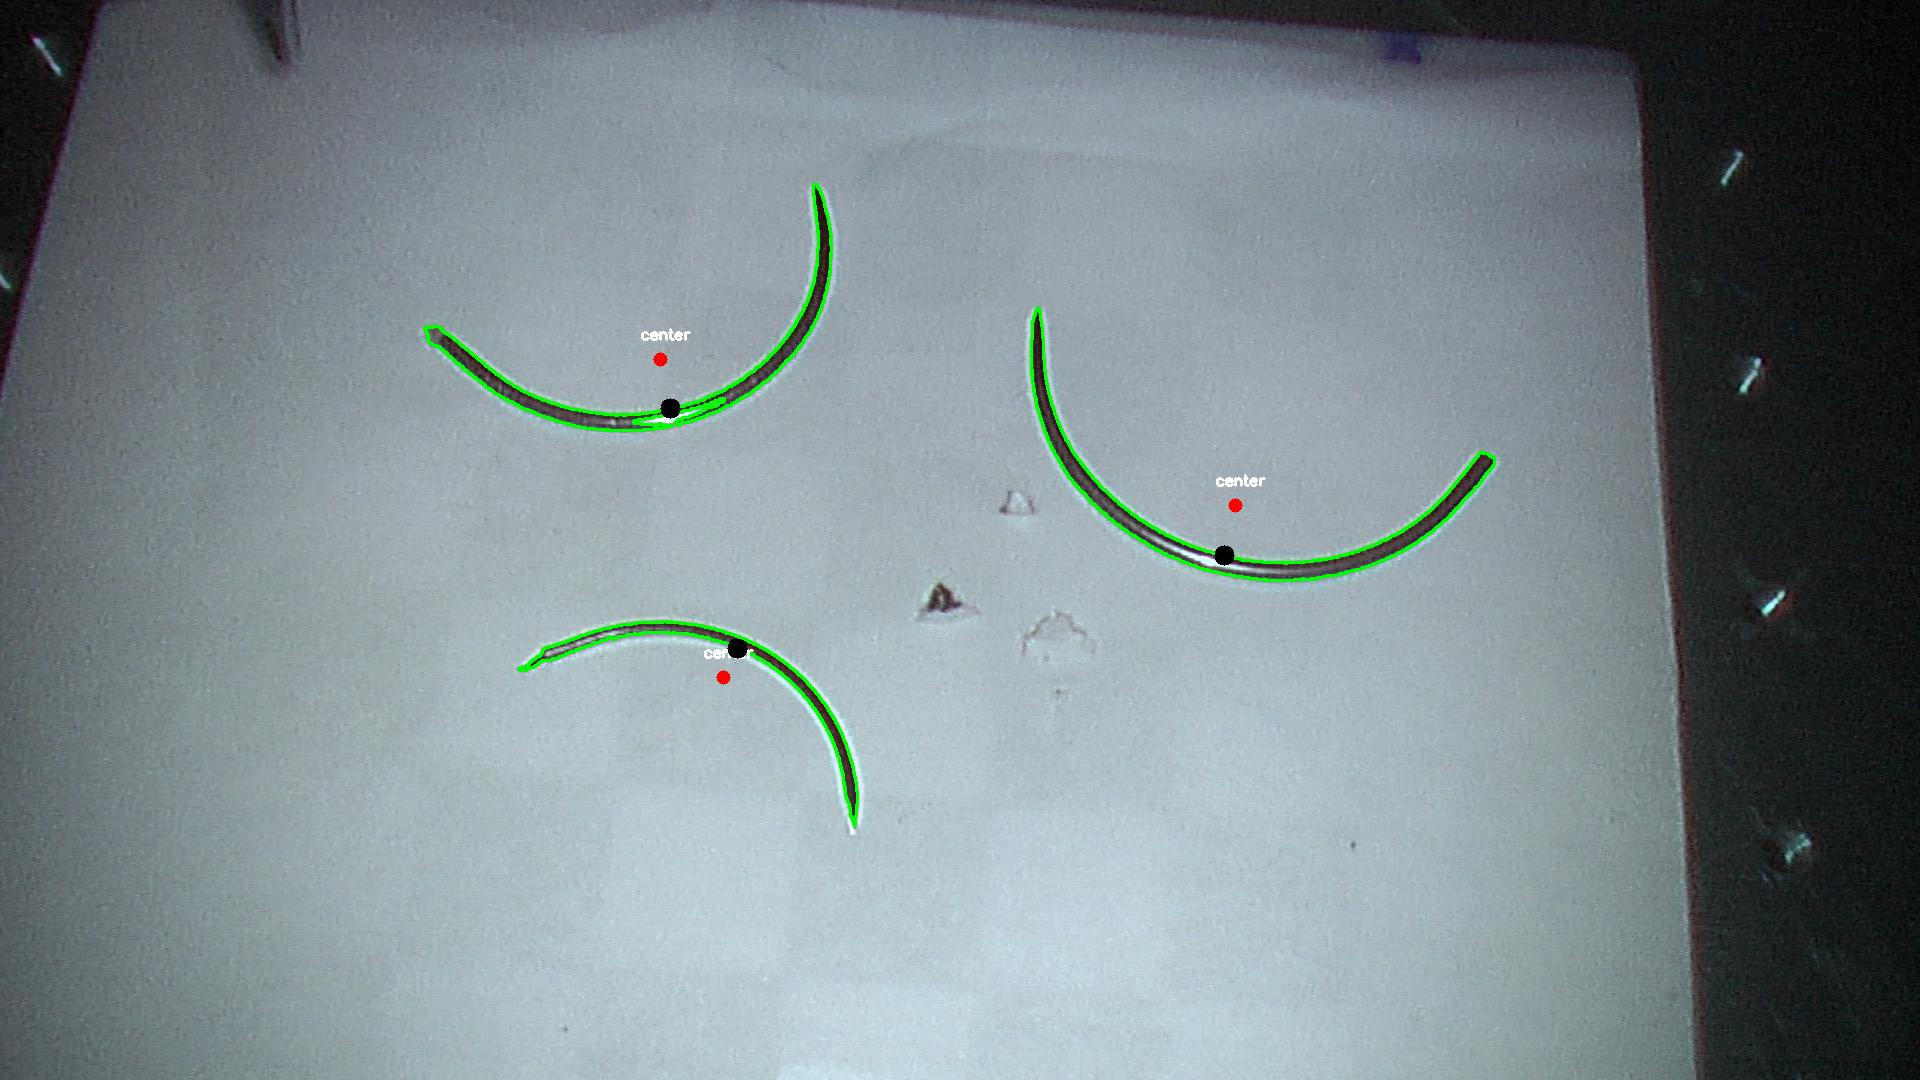
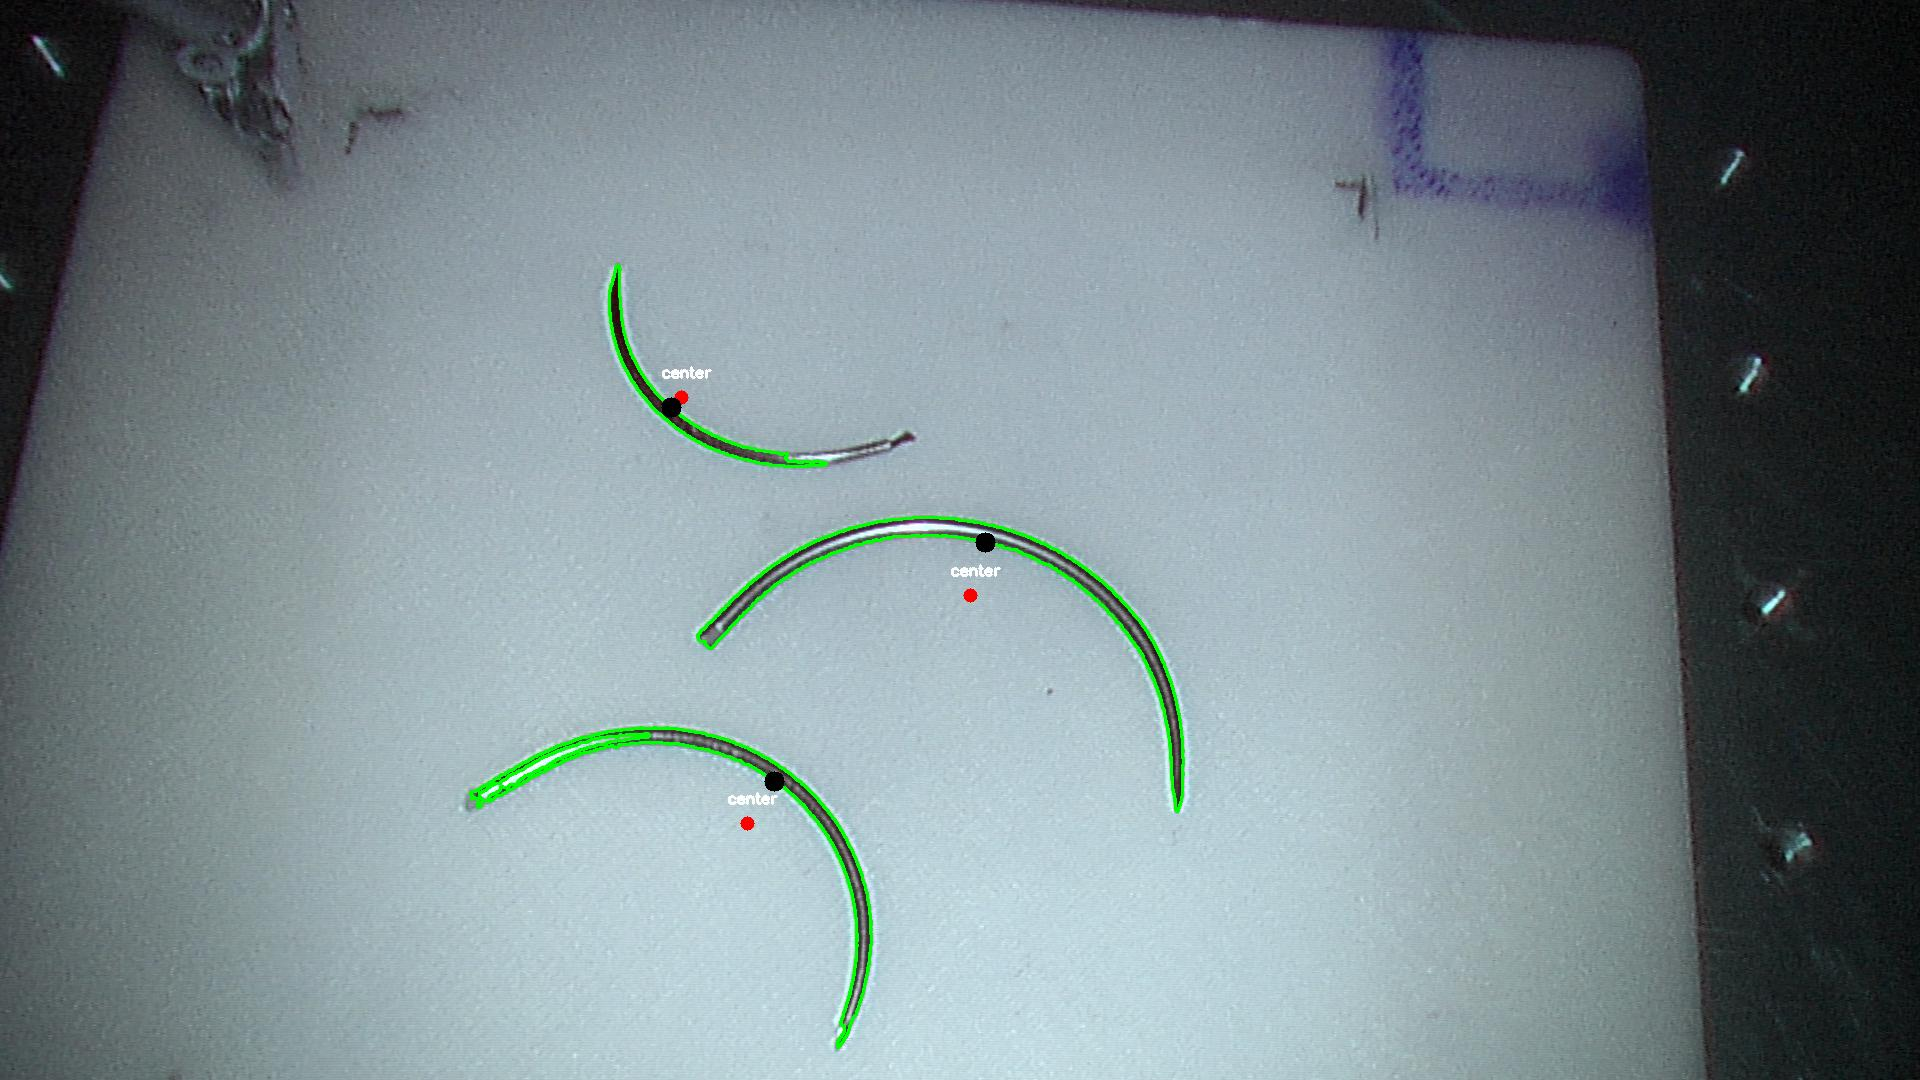
Added more robust needle detecting script

diff --git a/robust_ellipse.py b/robust_ellipse.py
@@ -1,0 +1,122 @@
+import image_geometry
+import rospy
+from geometry_msgs.msg import PointStamped, Point
+import cv2
+import cv_bridge
+import numpy as np
+import rospy, scipy.misc
+from sensor_msgs.msg import Image, CameraInfo
+import time
+
+USE_SAVED_IMAGES = False
+
+class EllipseDetector:
+
+    def __init__(self):
+        self.bridge = cv_bridge.CvBridge()
+        self.left_image = None
+        self.right_image = None
+        self.info = {'l': None, 'r': None, 'b': None, 'd': None}
+        self.plane = None
+        self.area_lower = 2000
+        self.area_upper = 30000
+        self.ellipse_area_lower = 10000
+        self.ellipse_area_upper = 300000
+
+        #========SUBSCRIBERS========#
+        # image subscribers
+        rospy.init_node('circle_detector', anonymous=True)
+        rospy.Subscriber("/endoscope/left/image_rect_color", Image,
+                         self.left_image_callback, queue_size=1)
+        rospy.Subscriber("/endoscope/right/image_rect_color", Image,
+                         self.right_image_callback, queue_size=1)
+        # info subscribers
+        rospy.Subscriber("/endoscope/left/camera_info",
+                         CameraInfo, self.left_info_callback)
+        rospy.Subscriber("/endoscope/right/camera_info",
+                         CameraInfo, self.right_info_callback)
+
+    def left_info_callback(self, msg):
+        if self.info['l']:
+            return
+        self.info['l'] = msg
+
+    def right_info_callback(self, msg):
+        if self.info['r']:
+            return
+        self.info['r'] = msg
+
+    def right_image_callback(self, msg):
+        if rospy.is_shutdown():
+            return
+        if USE_SAVED_IMAGES:
+            self.right_image = cv2.imread('right_checkerboard.jpg')
+        else:
+            self.right_image = self.bridge.imgmsg_to_cv2(msg, "bgr8")
+        if self.left_image != None:
+            self.process_image()
+
+    def left_image_callback(self, msg):
+        if rospy.is_shutdown():
+            return
+        if USE_SAVED_IMAGES:
+            self.left_image = cv2.imread('left_checkerboard.jpg')
+        else:
+            self.left_image = self.bridge.imgmsg_to_cv2(msg, "bgr8")
+            scipy.misc.imsave('camera_data/unfitted_image.jpg', self.left_image)
+        # if self.right_image != None:
+        #     self.process_image()
+
+    def closest_to_centroid(self, contour_points, cX, cY):
+        return min(contour_points, key=lambda c: abs(cv2.pointPolygonTest(c,(cX,cY),True)))
+
+    def report(self, contour, area, cX, cY, closest, ellipse_area):
+        print('Contour Detected')
+        print('Contour Area:', area)
+        print('Centroid', cX, cY)
+        print('Closest Point', closest[0], closest[1])
+        print('Ellipse Area:', ellipse_area)
+        print('---')
+
+    # Working now
+    def process_image(self):
+        gray = cv2.cvtColor(self.right_image, cv2.COLOR_BGR2GRAY)
+        thresh = cv2.threshold(gray, 0, 255, cv2.THRESH_BINARY_INV + cv2.THRESH_OTSU)[1]
+        scipy.misc.imsave('camera_data/thresh.jpg', thresh)
+        im2, contours, hierarchy = cv2.findContours(thresh.copy(), cv2.RETR_EXTERNAL, cv2.CHAIN_APPROX_SIMPLE)
+        for c in contours:
+            M = cv2.moments(c)
+            area = cv2.contourArea(c)
+            if int(M["m00"]) != 0 and (self.area_lower < area < self.area_upper):
+                cX = int(M["m10"] / M["m00"])
+                cY = int(M["m01"] / M["m00"])
+                closest = np.vstack(self.closest_to_centroid(c, cX, cY)).squeeze()
+                ellipse = cv2.fitEllipse(c)
+                (x,y), (ma,MA), angle = ellipse
+                aspect_ratio = ma/MA
+                ellipse_area = (np.pi * ma * MA)/4
+                if (0.6 < aspect_ratio < 1.0):
+                    self.report(c, area, cX, cY, closest, ellipse_area)
+                    cv2.drawContours(self.right_image, [c], -1, (0, 255, 0), 2)
+                    cv2.ellipse(self.right_image, ellipse, (255, 0, 0), 2)
+                    cv2.circle(self.right_image, (cX, cY), 7, (255, 255, 255), -1)
+                    cv2.putText(self.right_image, "center", (cX - 20, cY - 20), cv2.FONT_HERSHEY_SIMPLEX, 0.5, (255, 255, 255), 2)
+                    cv2.circle(self.right_image, (closest[0], closest[1]), 10, (0, 0, 0), -1)
+                else:
+                    cv2.drawContours(self.right_image, [c], -1, (0, 0, 255), 2)
+                    cv2.ellipse(self.right_image, ellipse, (0, 0, 255), 2)
+                    cv2.putText(self.right_image, "REJECTED", (cX - 20, cY - 20), cv2.FONT_HERSHEY_SIMPLEX, 0.5, (255, 255, 255), 2)
+        scipy.misc.imsave('camera_data/fitted.jpg', self.right_image)
+
+        
+if __name__ == "__main__":
+    a = EllipseDetector()
+    while 1:
+        frame = a.right_image
+        if frame is None:
+            continue
+        cv2.imshow('frame', frame)
+        if cv2.waitKey(1) & 0xFF == ord('q'):
+            break
+    cv2.destroyAllWindows()
+    # rospy.spin()

diff --git a/move_psm_test.py b/move_psm_test.py
@@ -15,6 +15,41 @@ Run 'python needle3d.py' to find the needle centers in view and get their 3d pos
 Then run 'python move_psm_test.py' to move the PSM to those centers and pick up the needles.
 """
 
+def home(psm, pos, rot):
+	""" Move to arbitrary start position (near upper left corner) & release anything gripper is
+	holding. """
+	print("Moving to start position...")
+	start = PyKDL.Frame(rot, pos)
+	psm.open_jaw()
+	time.sleep(.25)
+	psm.move(start)
+	time.sleep(.25)
+	psm.close_jaw()
+	time.sleep(.25)
+
+def pickup(psm, points, z_upper, z_lower):
+	for point in points:
+		x, y = point[0], point[1]
+		print("Moving to:")
+		print(point)
+		psm.move(PyKDL.Vector(x, y, z_upper))
+		time.sleep(.25)
+		psm.open_jaw()
+		print("Lowering...")
+		time.sleep(.25)
+		psm.move(PyKDL.Vector(x, y, z_lower))
+		time.sleep(.25)
+		print("Grasping...")
+		psm.close_jaw()
+		time.sleep(.25)
+		print("Grasped...")
+		psm.move(PyKDL.Vector(x, y, z_upper))
+		time.sleep(.25)
+		print("Releasing...")
+		psm.open_jaw()
+		time.sleep(.25)
+
+
 if __name__ == '__main__':
 
 	psm2 = robot.robot('PSM2')
@@ -25,29 +60,21 @@ if __name__ == '__main__':
 	""" An arbitrary z starting point that is not too close/far from the platform.
 	When the gripper picks up a needle, it moves up to this point and then releases the needle.
 	Change if it is too high/low above the platform. """
-	z_start = -0.111688
+	z_upper = -0.115688
 
 	""" Where PSM2 touches the platform """
-	z_limit = -0.1233
+	z_lower = -0.1233
 
-	""" POSE PSM2 WAS CALIBRATED IN """
-	pos = PyKDL.Vector(-0.118749, 0.0203151, -0.111688)
+	""" POSE PSM2 WAS CALIBRATED IN """	pos = PyKDL.Vector(-0.118749, 0.0203151, -0.111688)
 	rot = PyKDL.Rotation(-0.988883, -0.00205771,   -0.148682,
 						-0.00509171,    0.999786,   0.0200282,
 						 0.148609,   0.0205626,   -0.988682)
 
-	start = PyKDL.Frame(rot, pos)
-
 	""" Move to arbitrary start position (near upper left corner) & release anything gripper is
 	holding. """
-	print("Moving to start position")
-	psm2.open_jaw()
-	time.sleep(.5)
-	psm2.move(start)
-	time.sleep(.5)
-	psm2.close_jaw()
-	time.sleep(.5)
-
+	home(psm2, pos, rot)
+	
+	
 	""" Get PSM and endoscope calibration data (25 corresponding chess points) """
 	psm2_calibration_data = list(read_psm_data.load_all('calibration/psm2_recordings.txt'))
 	psm2_calibration_matrix = read_psm_data.psm_data_to_matrix(psm2_calibration_data)
@@ -64,21 +91,6 @@ if __name__ == '__main__':
 	print(needle_to_psm2)
 
 	""" Verbose test for moving the PSM to needle centers, picking them up, and releasing them """
-	for point in needle_to_psm2.tolist():
-		print("Moving to", point)
-		psm2.move(PyKDL.Vector(point[0], point[1], z_start))
-		time.sleep(.5)
-		psm2.open_jaw()
-		print("Lowering...")
-		time.sleep(.25)
-		psm2.move(PyKDL.Vector(point[0], point[1], z_limit))
-		time.sleep(.25)
-		print("Grasping...")
-		psm2.close_jaw()
-		time.sleep(.25)
-		print("Grasped...")
-		psm2.move(PyKDL.Vector(point[0], point[1], z_start))
-		time.sleep(.25)
-		print("Releasing...")
-		psm2.open_jaw()
-		time.sleep(.25)
+	pickup(psm2, needle_to_psm2.tolist(), z_upper, z_lower)
+
+	home(psm2, pos, rot)

diff --git a/needle3d.py b/needle3d.py
@@ -116,10 +116,11 @@ class EllipseDetector:
     def closest_to_centroid(self, contour_points, cX, cY):
         return min(contour_points, key=lambda c: abs(cv2.pointPolygonTest(c,(cX,cY), True)))
 
-    def annotate(self, image, cX, cY, true_center, contours):
+    def annotate(self, image, cX, cY, true_center, contours, area):
         print('\nContour Detected')
         print('Centroid', (cX, cY))
         print('Closest Point', true_center)
+        print('Area', area)
         cv2.drawContours(image, contours, -1, (0, 255, 0), 2)
         cv2.circle(image, (cX, cY), 7, (255, 0, 0), -1)
         cv2.putText(image, "center", (cX - 20, cY - 20), cv2.FONT_HERSHEY_SIMPLEX, 0.5, (255, 255, 255), 2)
@@ -144,7 +145,7 @@ class EllipseDetector:
                     true_center = (closest[0], closest[1])
                     if image is self.left_image:
                         left.append(true_center)
-                        self.annotate(image, cX, cY, true_center, [c])
+                        self.annotate(image, cX, cY, true_center, [c], area)
                         scipy.misc.imsave('camera_data/fitted_image.jpg', image)
                     else:
                         right.append(true_center)
@@ -153,6 +154,7 @@ class EllipseDetector:
             self.pts = [(p.point.x, p.point.y, p.point.z) for p in pts3d]
             pprint.pprint(self.pts)
             with open('needle_data/needle_points.p', "w+") as f:
+                print("Found")
                 pickle.dump(self.pts, f)
             rospy.signal_shutdown("Finished.")
 
